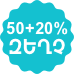
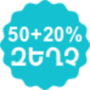
bigger assets

diff --git a/image_gen.py b/image_gen.py
@@ -47,13 +47,17 @@ price_padding_x = price_offset_x + AMD_offset_x + 3 + 25
 ImageDraw.Draw(img).text((width - price_padding_x, height - 50), price, (255, 255, 255), price_font)
 ImageDraw.Draw(img).text((width - price_padding_x + price_offset_x + 3, height - 32), "AMD", (255, 255, 255), AMD_font)
 
-if off_tag == "20_off":
-    off_20 = read_image("assets/20_off.png").convert("RGBA")
-    off_20_size_x, off_20_size_y = off_20.size
-    img.paste(im=off_20, box=(width-1 - off_20_size_x, 0), mask=off_20)
-elif off_tag == "20_off":
-    off_50 = read_image("assets/50_20.png").convert("RGBA")
-    off_50_size_x, off_50_size_y = off_50.size
-    img.paste(im=off_50, box=(width - 1 - off_50_size_x, 0), mask=off_50)
+#if off_tag == "20_off":
+
+
+
+#elif off_tag == "50_20":
+off_50 = read_image("assets/50_20.png").convert("RGBA")
+off_50_size_x, off_50_size_y = off_50.size
+img.paste(im=off_50, box=(width-1 - off_50_size_x - 2, 2), mask=off_50)
+
+off_20 = read_image("assets/20_off.png").convert("RGBA")
+off_20_size_x, off_20_size_y = off_20.size
+img.paste(im=off_20, box=(width-1 - off_20_size_x, 0), mask=off_20)
 
 img.save('result.jpg')
